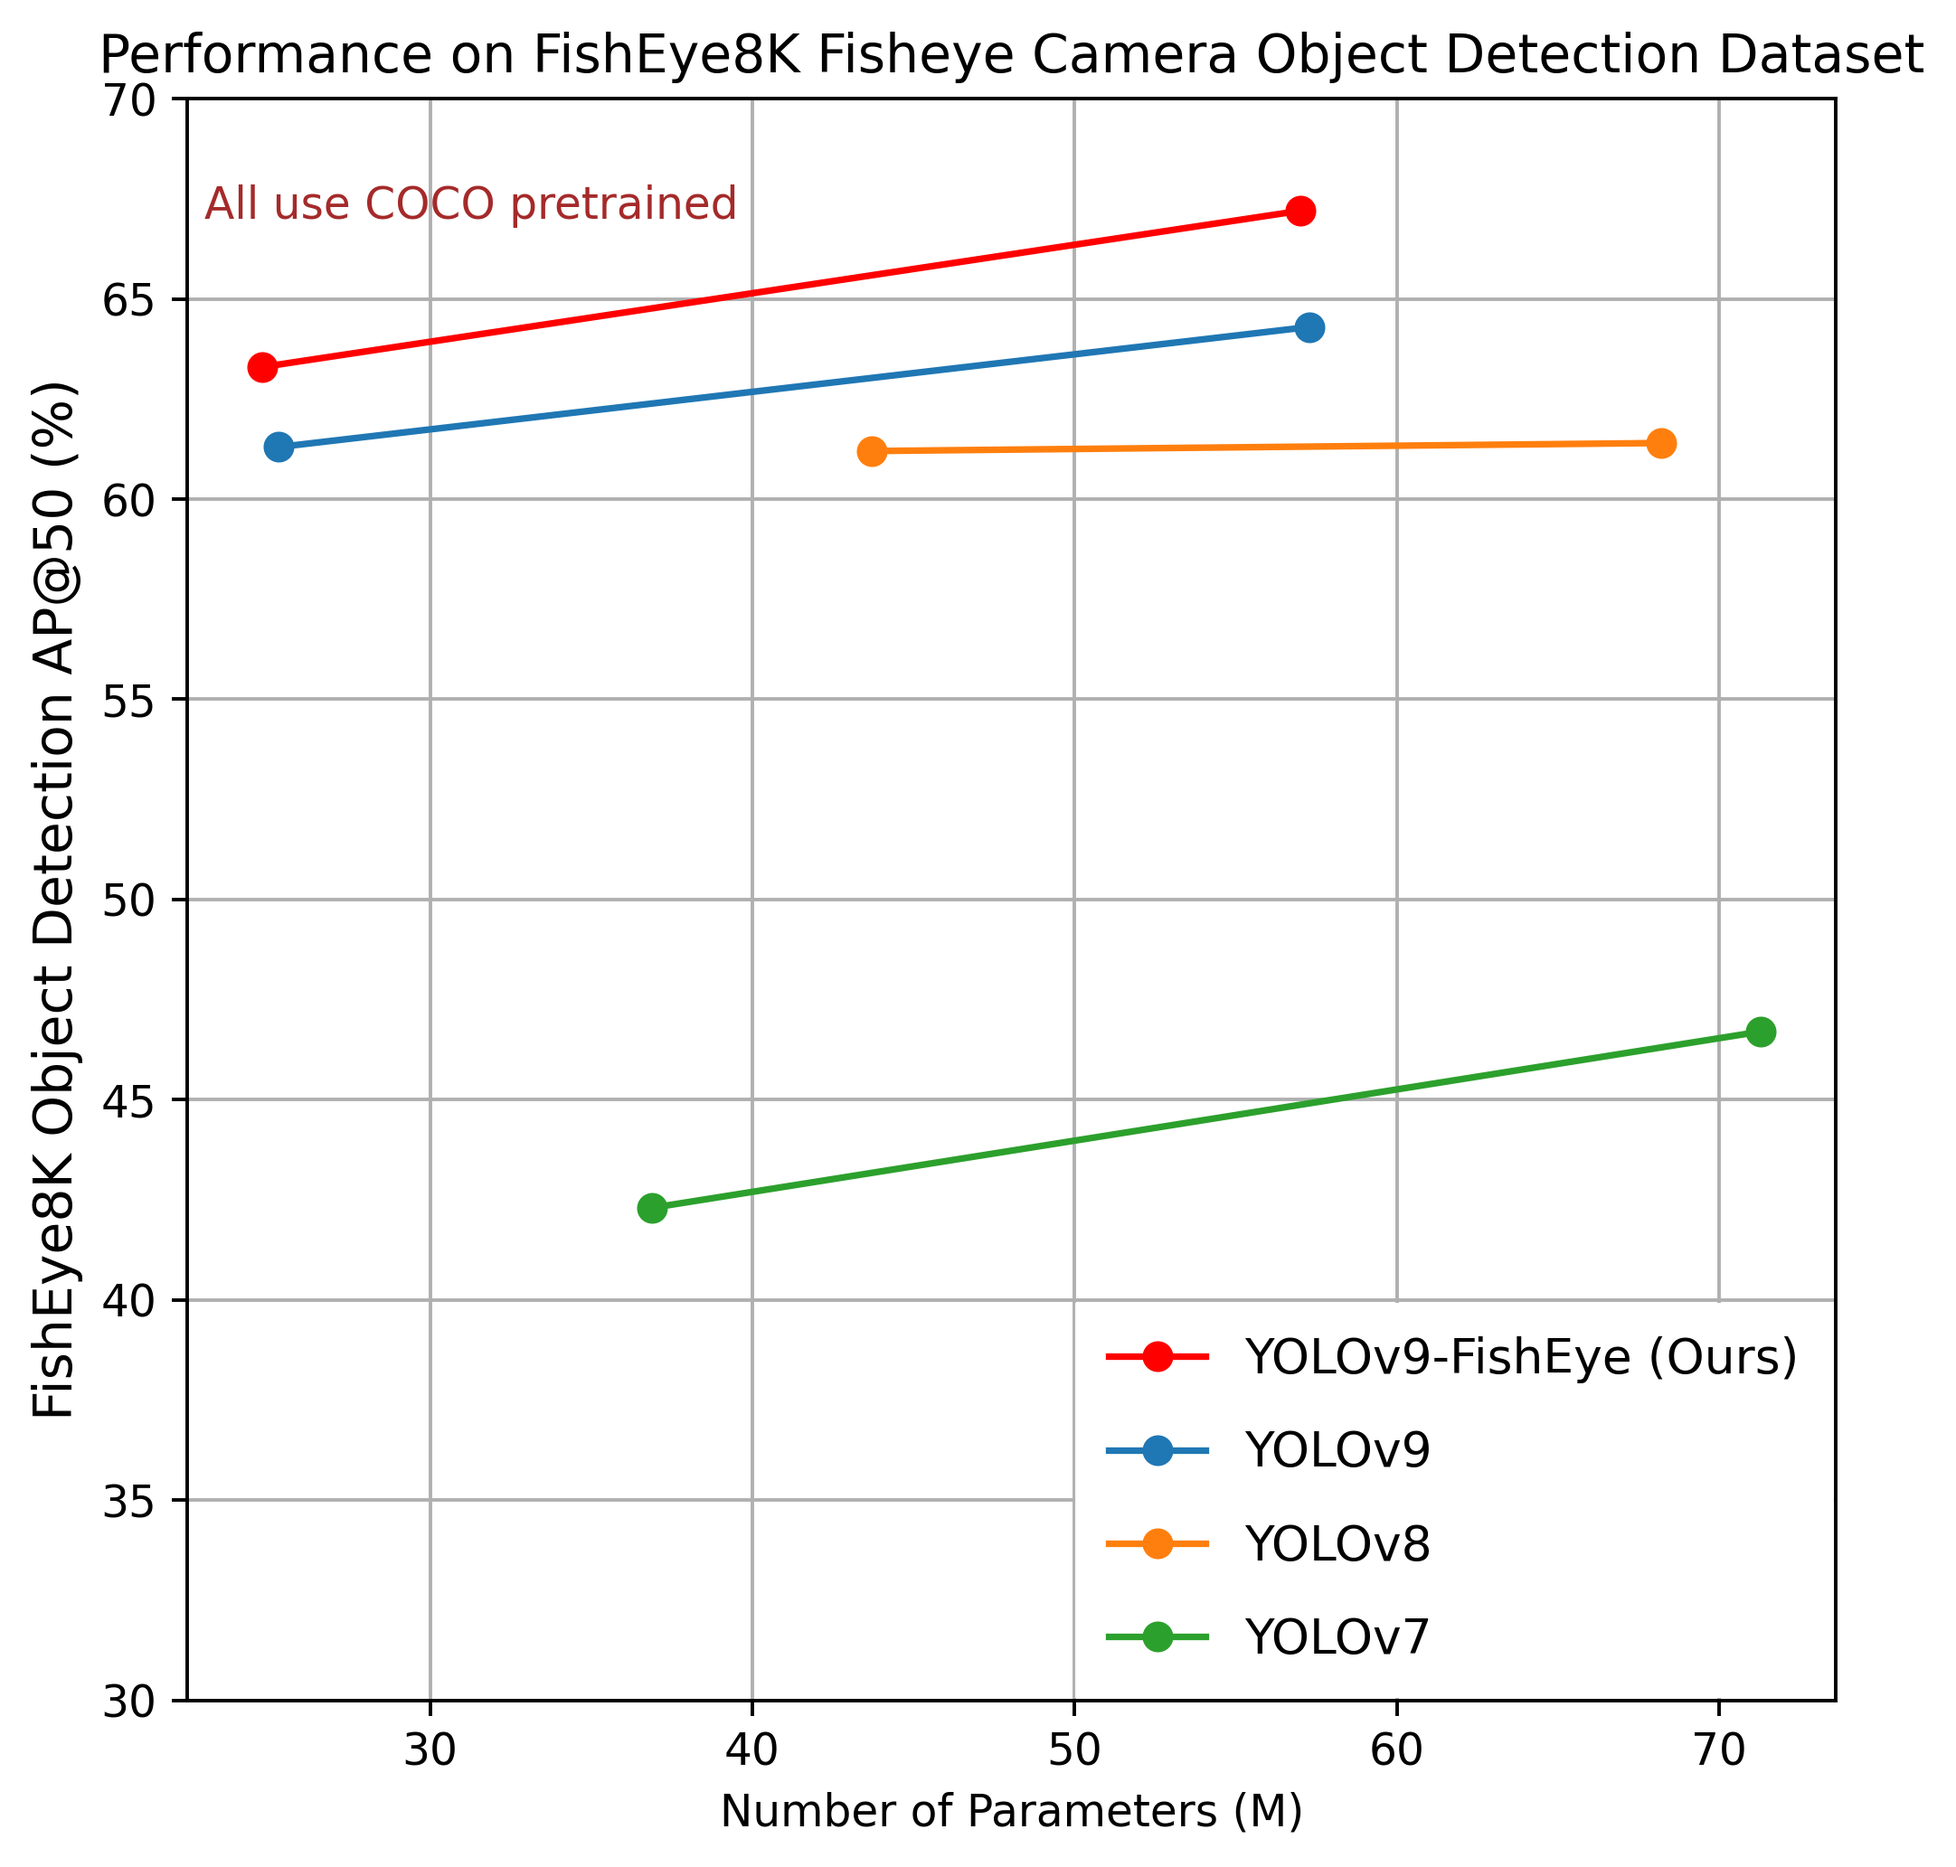
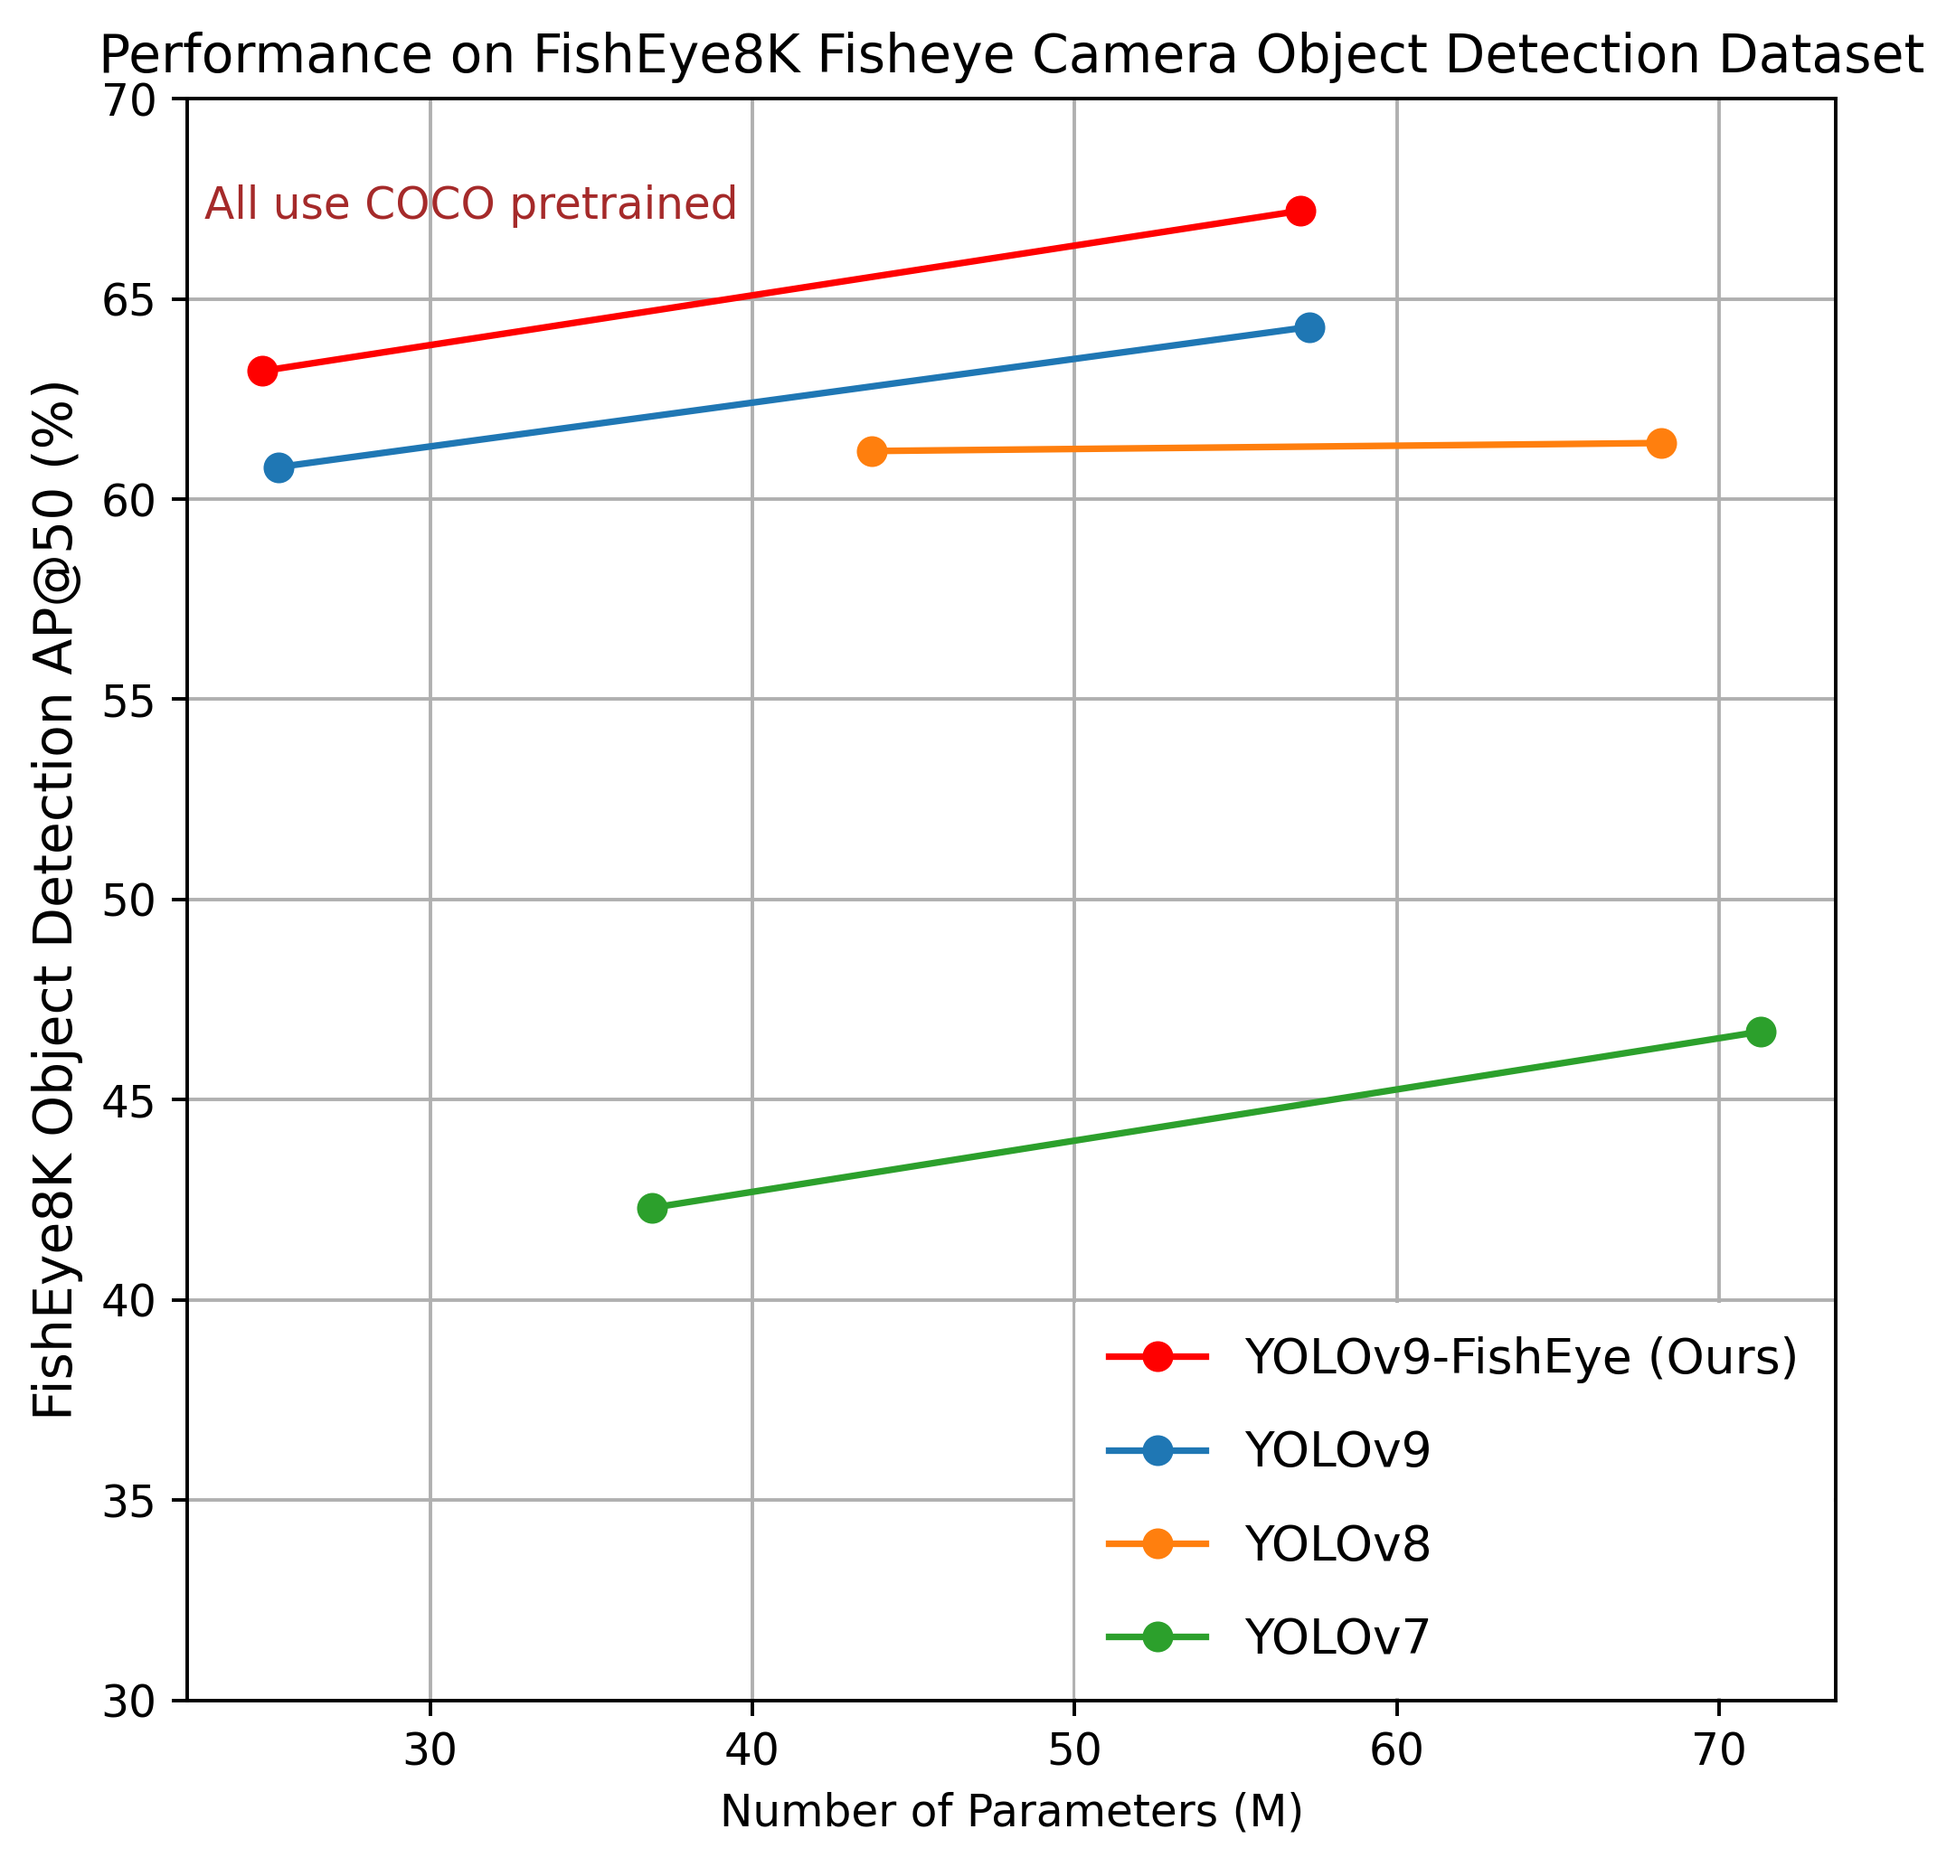
Update README

Changed region(s): [[0.1239, 0.155, 0.5885, 0.2789]]

diff --git a/README.md b/README.md
@@ -25,10 +25,10 @@ Results on [FishEye8K](https://scidm.nchc.org.tw/en/dataset/fisheye8k) dataset.
 | Model | Test Size | AP<sub>50</sub><sup>test</sup> | mAP<sup>test</sup> | F1-score | Param. | FLOPs |
 | :-- | :-: | :-: | :-: | :-: | :-: | :-: |
 | [**Our-E**]() | 640 | **67.2%** | **46.4%** | **59.8%** | **57.0M** | **186.3G** |
-| [**Our-C (dev)**]() | 640 | **63.3%** | **41.2%** | **55.9%** | **24.8M** | **101.7G** |
+| [**Our-C**]() | 640 | **63.2%** | **42.9%** | **55.1%** | **24.7M** | **101.4G** |
 |  |  |  |  |  |  |  |
 | [**YOLOv9-E**]() | 640 | **64.3%** | **44.1%** | **56.7%** | **57.3M** | **189.0G** |
-| [**YOLOv9-C**]() | 640 | **61.3%** | **40.2%** | **55.9%** | **25.3M** | **102.1G** |
+| [**YOLOv9-C**]() | 640 | **60.8%** | **41.2%** | **53.7%** | **25.3M** | **102.1G** |
 | [**YOLOv8x**]() | 640 | **61.4%** | **40.29%** | **51.0%** | **68.2M** | **257.8G** |
 | [**YOLOv7-X**]() | 640 | **46.74%** | **29.19%** | **57.9%** | **71.3M** | **189.9G** |
 |  |  |  |  |  |  |  |
@@ -51,7 +51,7 @@ We replace RepNBottleNeck network in ELAN byRepNLSKBottleNeck by RepNDCNv2Bottle
 
 <div align="center">
     <a href="./">
-        <img src="./figure/RepNBottleNeckDCNv2.png" width="30%"/>
+        <img src="./figure/RepNBottleNeckDCNv2.png" width="25%"/>
     </a>
 </div>
 
@@ -59,7 +59,7 @@ We replace RepNBottleNeck network in ELAN byRepNLSKBottleNeck by RepNDCNv2Bottle
 
 <div align="center">
     <a href="./">
-        <img src="./figure/RepNBottleNeckLSK.png" width="30%"/>
+        <img src="./figure/RepNBottleNeckLSK.png" width="32%"/>
     </a>
 </div>
 
@@ -84,7 +84,9 @@ cd /fe8kf9
 
 ## Evaluation
 
-[`yolov9-e-converted.pt`]() [`yolov9-e-modify-converted.pt`]() [`yolov9-e-trained.pt`]() [`yolov9-e-modify-trained.pt`]()
+Extra large version: [`yolov9-e-modify-converted.pt`](https://github.com/tuansunday05/fe8kv9/releases/download/v1.0/yolov9-e-modify-converted.pt) [`yolov9-e-modify-trained.pt`](https://github.com/tuansunday05/fe8kv9/releases/download/v1.0/yolov9-e-modify-trained.pt) 
+
+Compact version: [`yolov9-c-modify-converted.pt`](https://github.com/tuansunday05/fe8kv9/releases/download/v1.0/yolov9-c-modify-converted.pt) [`yolov9-c-modify-trained.pt`](https://github.com/tuansunday05/fe8kv9/releases/download/v1.0/yolov9-c-modify-trained.pt)
 
 ``` shell
 # evaluate our yolov9 modify converted models
